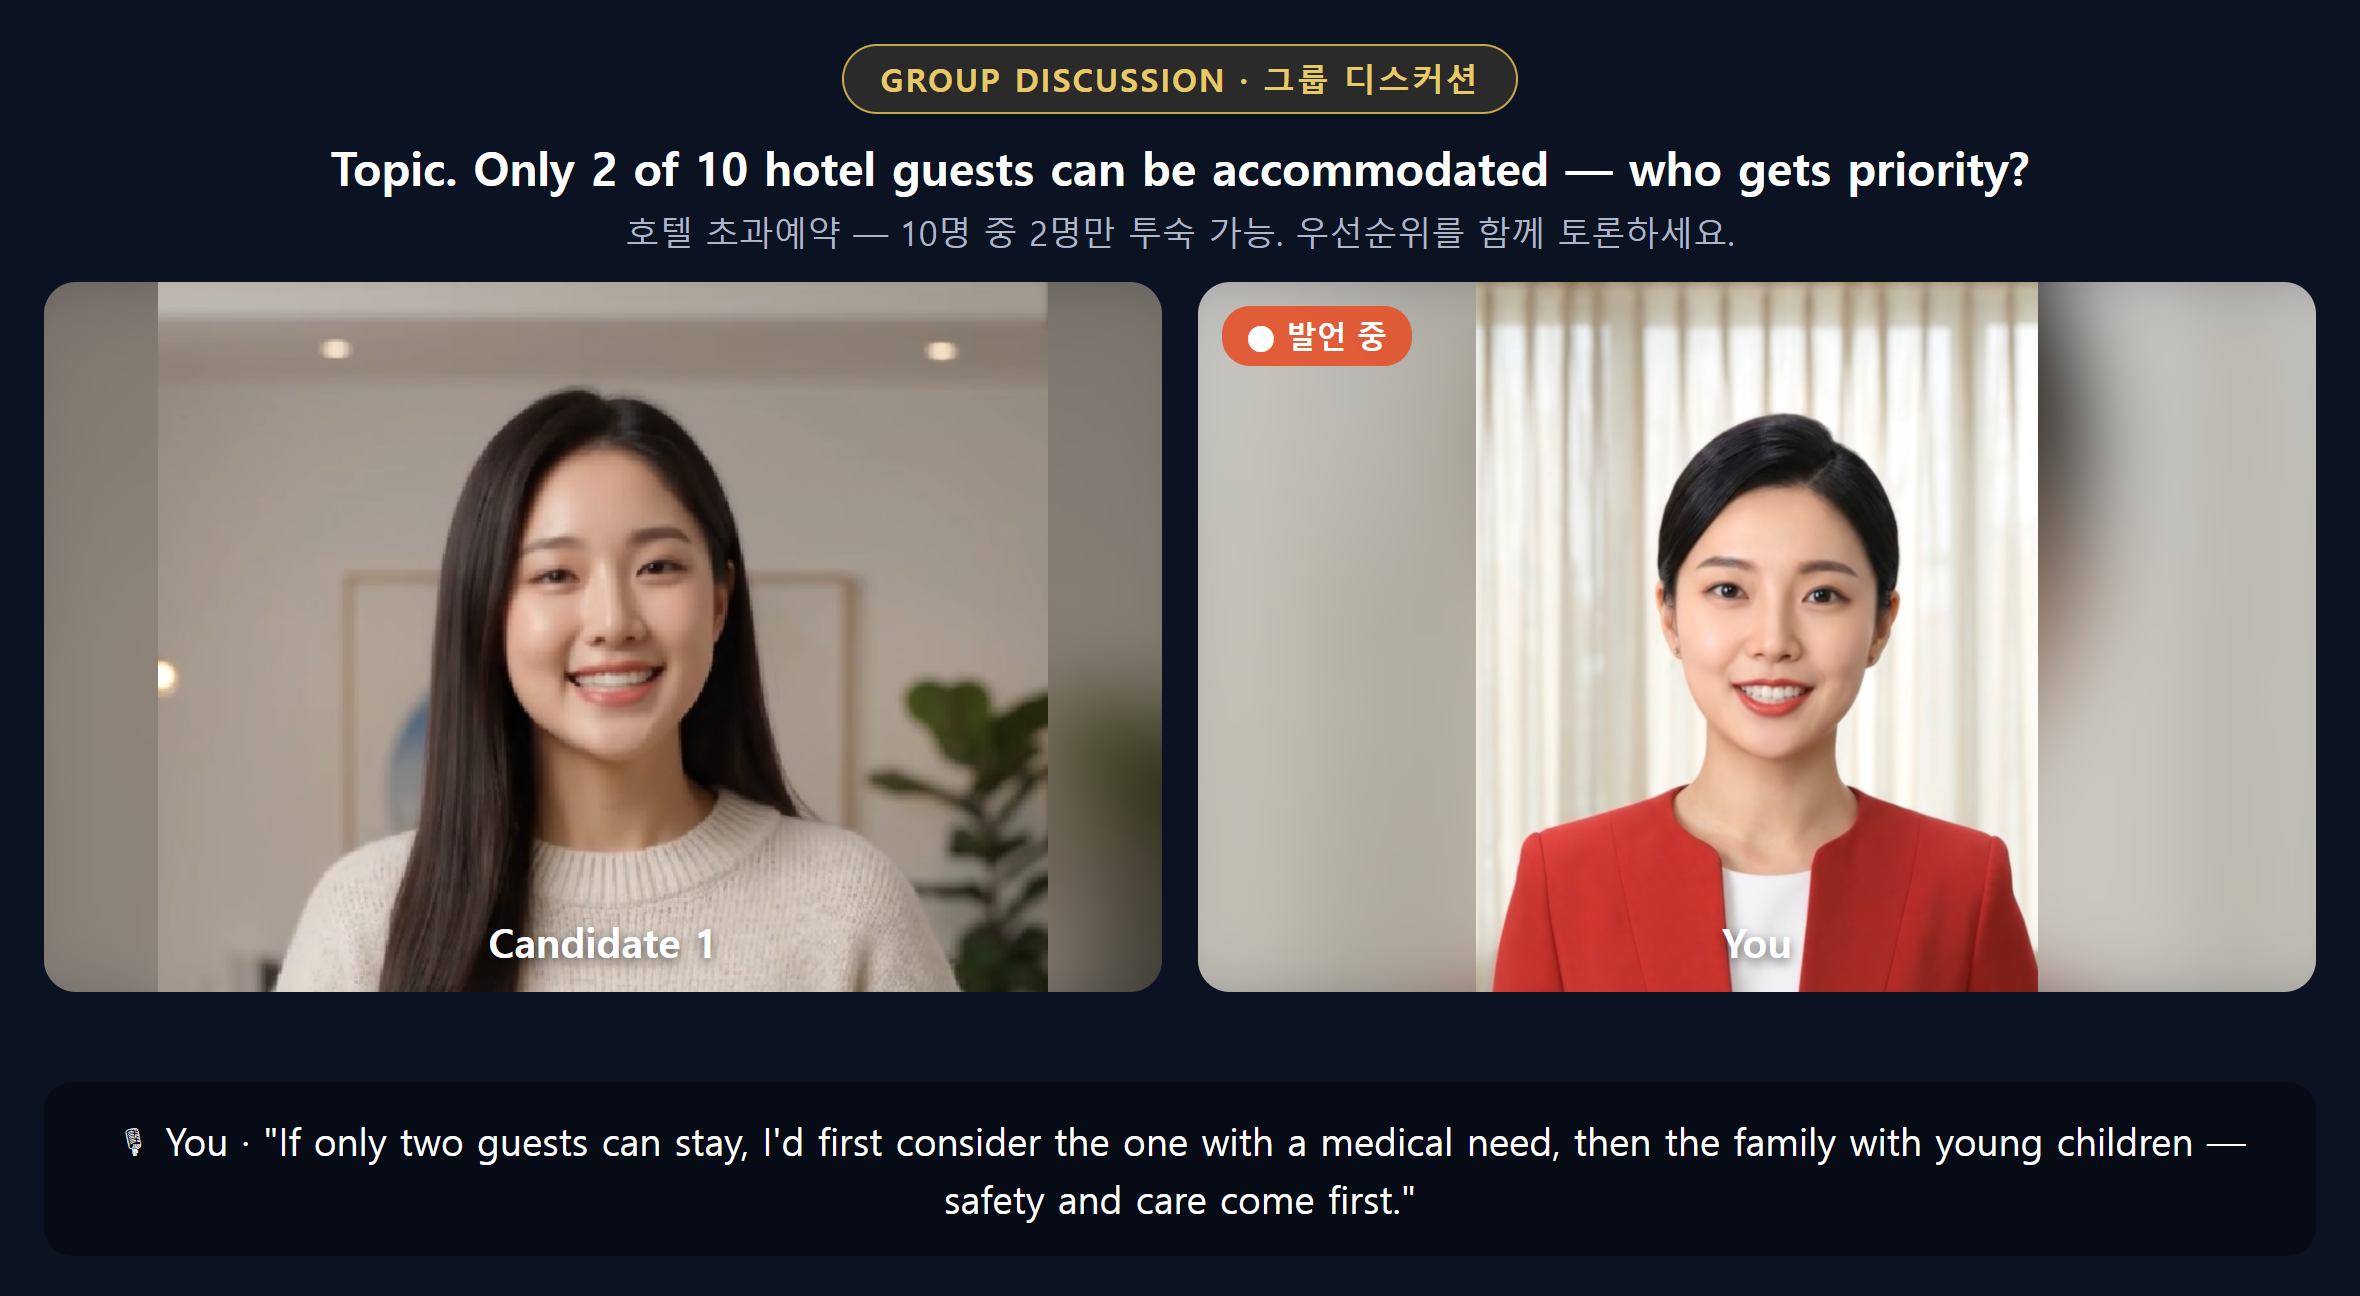
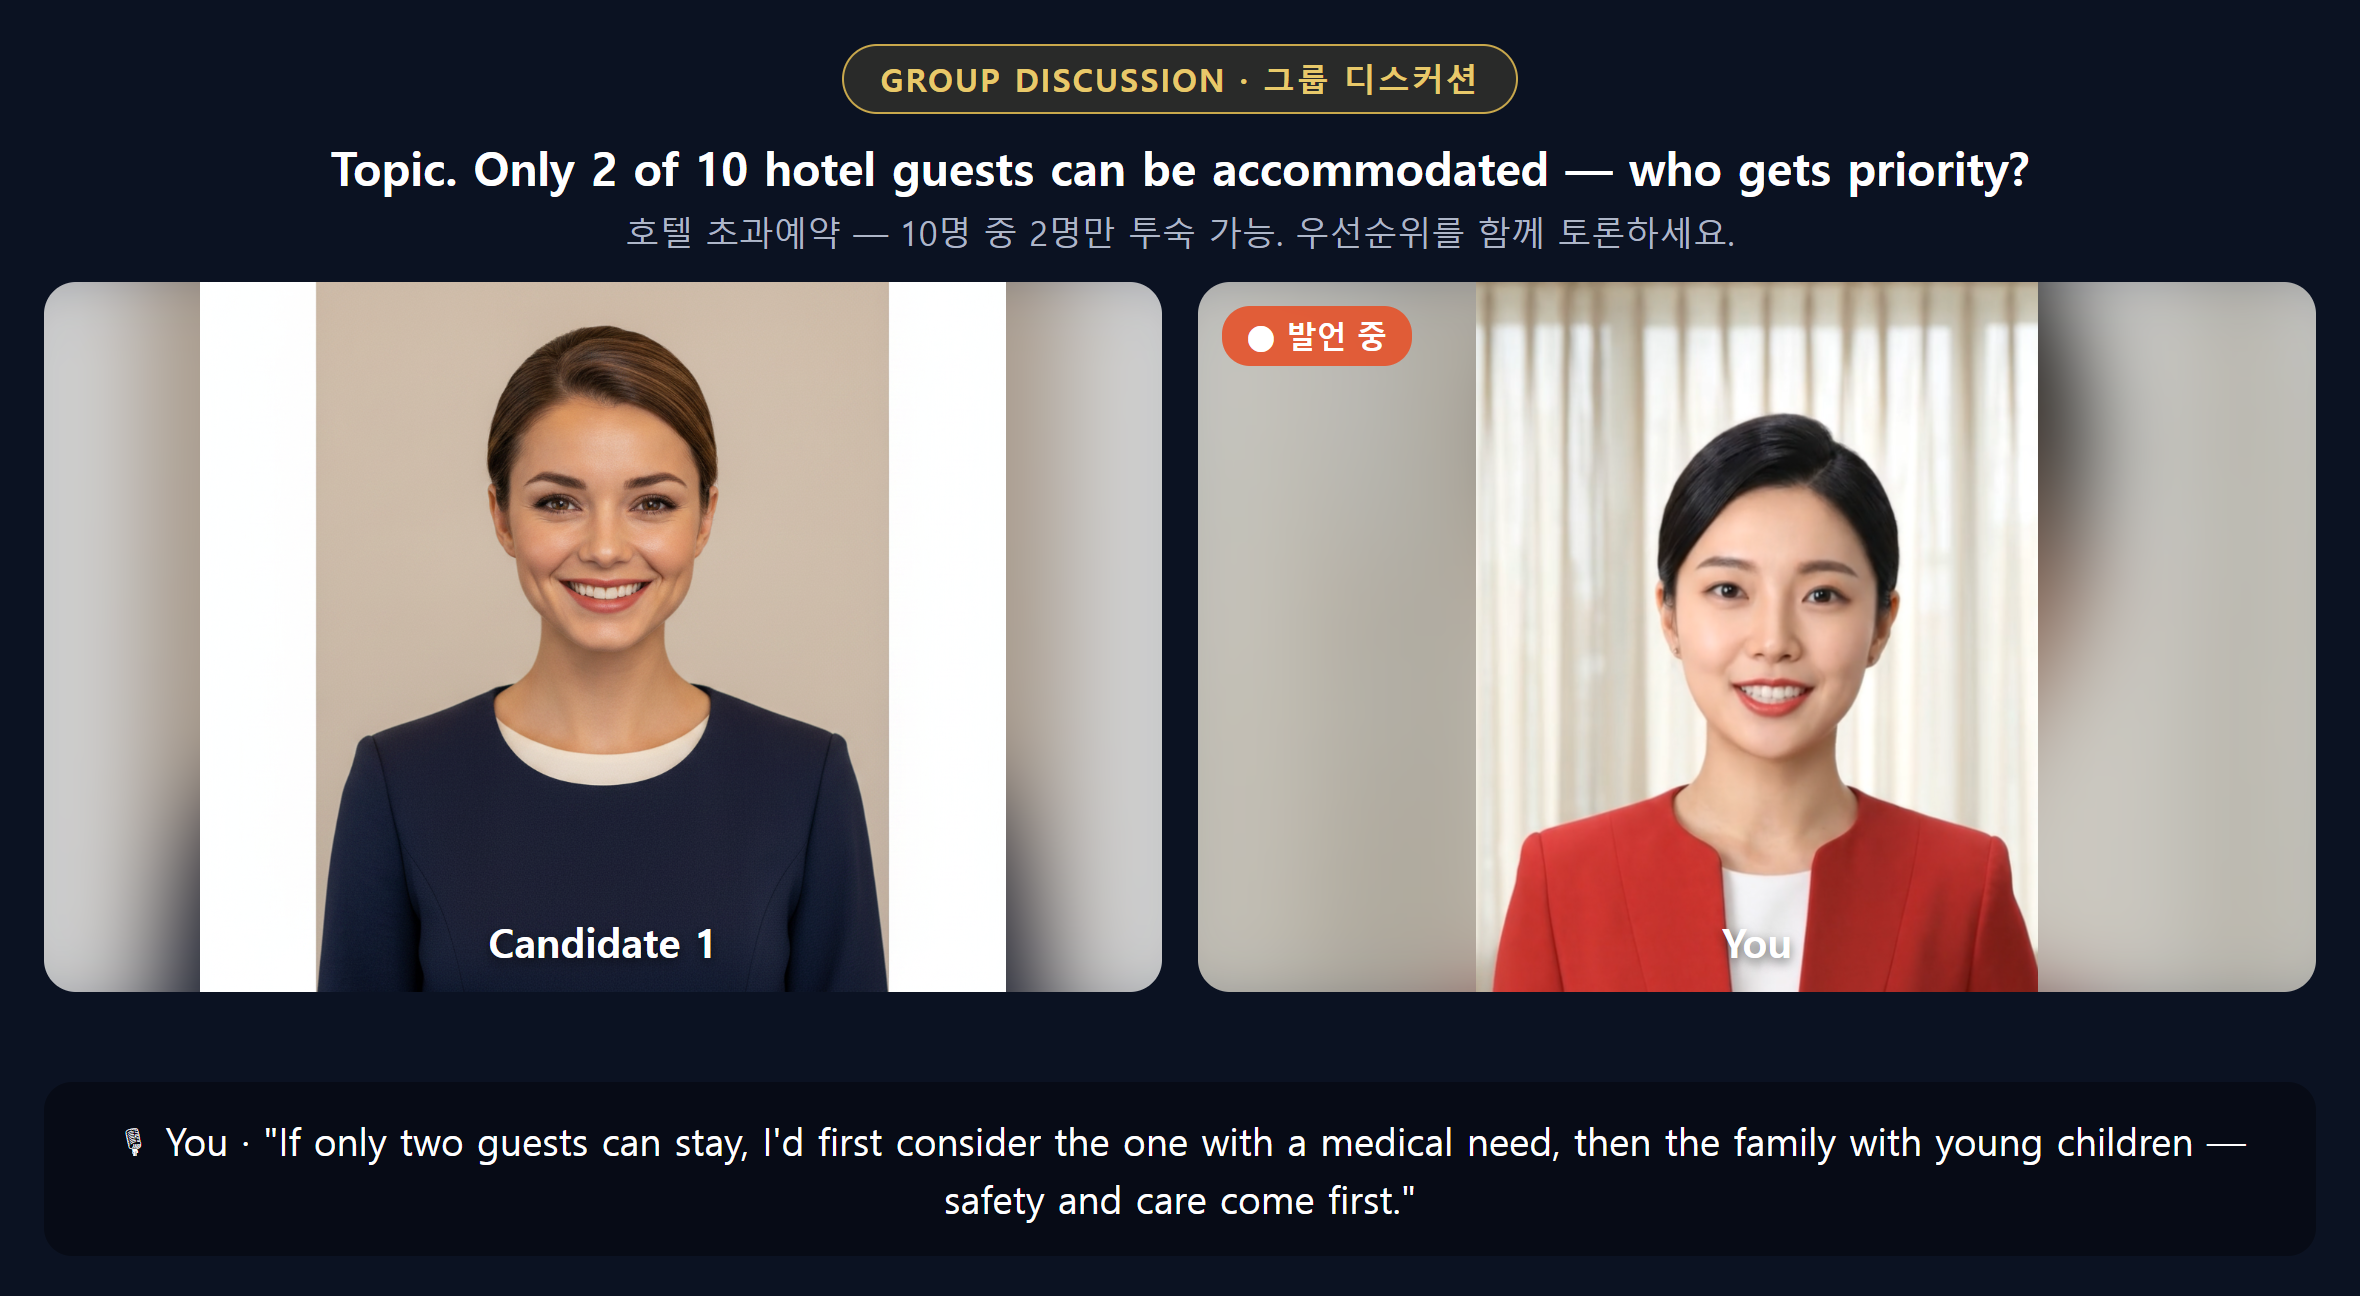
파이널 인물 넘침 수정(디스커션과 동일 비율·양타일 블러채움) v7 · 랜딩 최상단 대표/어드바이저 배너 · Candidate1 실제생성(Gemini) · 커스텀 이미지편집 엔드포인트(가드)

Changed region(s): [[0.0, 0.216, 0.4949, 0.7716]]

diff --git a/api/gen-edit.js b/api/gen-edit.js
@@ -1,0 +1,47 @@
+// 내부 전용 이미지 편집 엔드포인트 (Gemini nano-banana, gemini-2.5-flash-image).
+// 커스텀 프롬프트로 사진을 편집. secret 가드로 보호 (임시 사용 후 제거 가능).
+const MODEL = 'gemini-2.5-flash-image';
+const SECRET = 'wc-2026-genedit-9x7q';
+
+module.exports = async function handler(req, res) {
+  res.setHeader('Access-Control-Allow-Origin', '*');
+  res.setHeader('Access-Control-Allow-Methods', 'POST, OPTIONS');
+  res.setHeader('Access-Control-Allow-Headers', 'Content-Type');
+  if (req.method === 'OPTIONS') return res.status(200).end();
+  if (req.method !== 'POST') return res.status(405).json({ error: 'POST only' });
+
+  const key = process.env.GEMINI_API_KEY;
+  if (!key) return res.status(500).json({ error: 'no key (GEMINI_API_KEY)' });
+
+  let body = req.body;
+  if (typeof body === 'string') { try { body = JSON.parse(body); } catch { body = {}; } }
+  body = body || {};
+  if (body.secret !== SECRET) return res.status(403).json({ error: 'forbidden' });
+
+  let image = String(body.image || '');
+  const c = image.indexOf(',');
+  if (image.indexOf('data:') === 0 && c > -1) image = image.slice(c + 1);
+  const prompt = String(body.prompt || '');
+  if (!image || !prompt) return res.status(400).json({ error: 'image + prompt required' });
+  const mt = /png/i.test(body.mediaType || '') ? 'image/png' : 'image/jpeg';
+
+  try {
+    const r = await fetch(`https://generativelanguage.googleapis.com/v1beta/models/${MODEL}:generateContent`, {
+      method: 'POST',
+      headers: { 'Content-Type': 'application/json', 'x-goog-api-key': key },
+      body: JSON.stringify({
+        contents: [{ parts: [ { text: prompt }, { inline_data: { mime_type: mt, data: image } } ] }],
+        generationConfig: { responseModalities: ['IMAGE'] }
+      })
+    });
+    const d = await r.json();
+    if (!r.ok) return res.status(500).json({ error: 'fail', detail: d.error || d });
+    const parts = (((d.candidates || [])[0] || {}).content || {}).parts || [];
+    let out = null, ot = 'image/png';
+    for (const p of parts) { const inl = p.inline_data || p.inlineData; if (inl && inl.data) { out = inl.data; ot = inl.mime_type || inl.mimeType || ot; break; } }
+    if (!out) return res.status(500).json({ error: 'no image', detail: parts });
+    res.status(200).json({ image: 'data:' + ot + ';base64,' + out });
+  } catch (e) {
+    res.status(500).json({ error: e.message });
+  }
+};

diff --git a/landing.html b/landing.html
@@ -185,6 +185,12 @@ footer b{color:#fff;}
   <a href="#apply" class="nav-cta">🎬 무료 라이브 신청</a>
 </nav>
 
+<div style="text-align:center;font-family:'Noto Sans KR',sans-serif;font-size:0.84rem;line-height:1.7;color:var(--navy);background:#fff;border-bottom:1px solid var(--line);padding:13px 18px;">
+  <b>WonderfulCrew</b> · 에미레이트 7년차 일등석 출신 대표가 만든 승무원 코칭 플랫폼<br>
+  원더풀크루 출신, 10여 개 항공사 현직 승무원들이 어드바이저로 함께합니다<br>
+  <span style="color:var(--muted);">© 원더풀크루 · 승무원 합격의 완성</span>
+</div>
+
 <!-- HERO -->
 <header class="hero">
   <div class="eyebrow">For Cabin Crew</div>
@@ -301,7 +307,7 @@ footer b{color:#fff;}
     <h3>파이널 · 종합 분석</h3>
     <div class="vis-shot"><img src="images/Gemini_Generated_Image_9vrkb49vrkb49vrk.png" alt="파이널 종합 분석"></div>
     <div class="vis-shot" style="margin-top:10px;"><img src="images/shot-final.png" alt="파이널 - 면접관·항공사·영어 악센트 선택 화면"></div>
-    <div class="vis-shot" style="margin-top:10px;"><img src="images/shot-final-live.png?v=6" alt="파이널 실전 - 남성 면접관과 베스트 서비스 질문·실시간 자막"></div>
+    <div class="vis-shot" style="margin-top:10px;"><img src="images/shot-final-live.png?v=7" alt="파이널 실전 - 남성 면접관과 베스트 서비스 질문·실시간 자막"></div>
     <p>실전 직전 최종 점검과 종합 실력 분석 리포트, 그리고 1:1 코치 피드백까지. 그동안의 연습을 합격으로 완성하는 마지막 단계예요.</p><div class="card-note"><b>이 기능에서는</b>1. 실전 직전 종합 점검과 그동안의 연습 데이터를 모은 실력 분석 리포트를 받습니다.<br>2. 미소·답변·태도 등 항목별로 부족한 부분을 데이터로 확인해요.<br>3. 마지막은 1:1 코치 피드백으로 실전 준비를 완성합니다.</div>
   </div>
 

diff --git a/blog-drafts.html b/blog-drafts.html
@@ -534,7 +534,7 @@ hr{border:none;border-top:1px dashed var(--line);margin:30px 0;}
   <p>실전 직전 최종 점검과 종합 실력 분석 리포트, 그리고 1:1 코치 피드백까지. 원더풀크루에서는 그동안의 연습 데이터를 모아 미소·답변·태도를 항목별로 확인하고, 마지막은 코치 피드백으로 실전 준비를 완성합니다.</p>
   <figure><img src="images/Gemini_Generated_Image_9vrkb49vrkb49vrk.png" alt="파이널 종합 분석"></figure>
   <figure><img src="images/shot-final.png" alt="파이널 - 면접관·항공사·영어 엑센트 선택 화면"><figcaption>실제 화면 — 항공사·면접관·엑센트를 골라 실전처럼 마무리해요</figcaption></figure>
-  <figure><img src="images/shot-final-live.png?v=6" alt="파이널 실전 - 남성 면접관과 베스트 서비스 질문·실시간 자막"><figcaption>실제 화면 — 실전처럼 질문을 받고, 답변이 자막으로 실시간 기록돼요</figcaption></figure>
+  <figure><img src="images/shot-final-live.png?v=7" alt="파이널 실전 - 남성 면접관과 베스트 서비스 질문·실시간 자막"><figcaption>실제 화면 — 실전처럼 질문을 받고, 답변이 자막으로 실시간 기록돼요</figcaption></figure>
 
   <hr>
   <p>사진 한 장부터 마지막 1:1 면접까지 — 흩어져 있던 준비를 한 곳에서, 매일 조금씩. 원더풀크루에서는 그 전 과정을 실제 화면으로 직접 연습하며 합격까지 함께 걸어드릴게요.</p>
